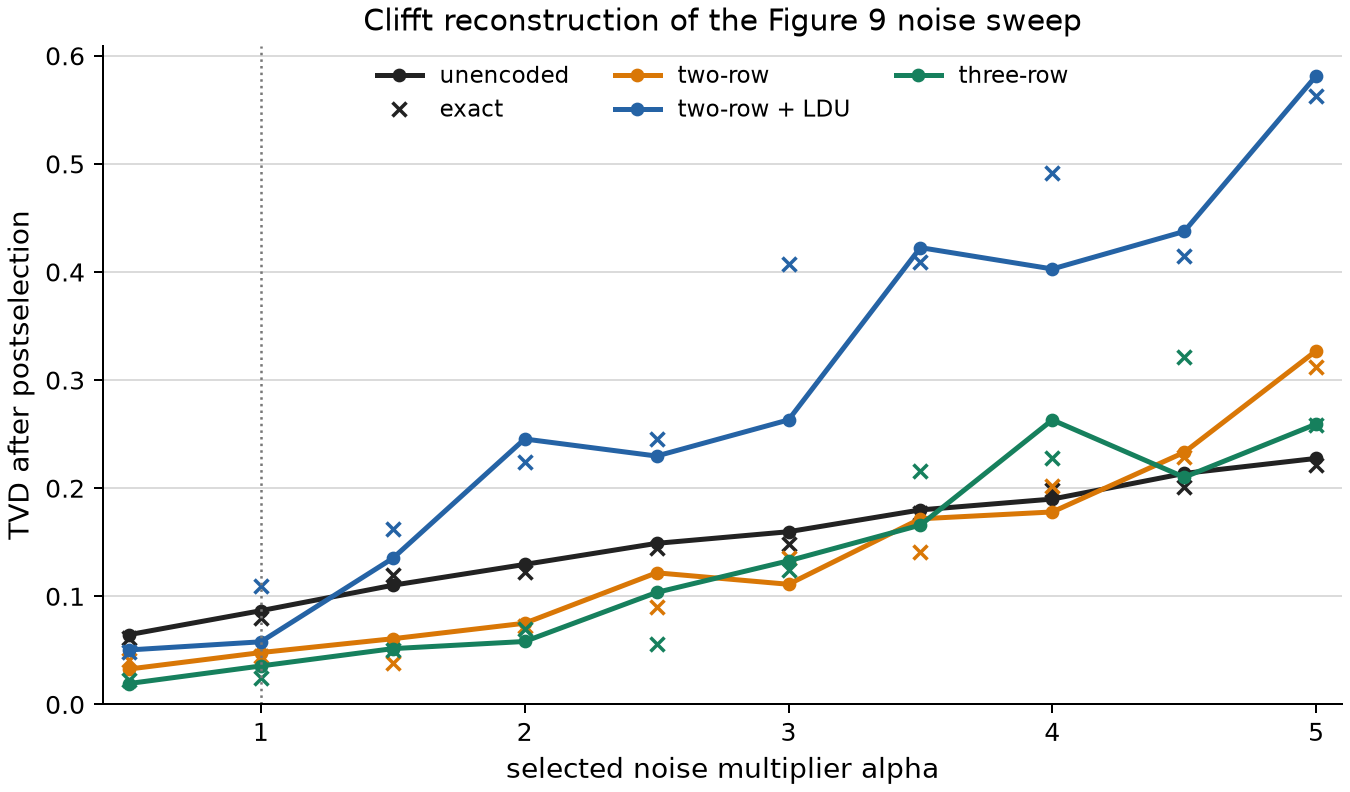
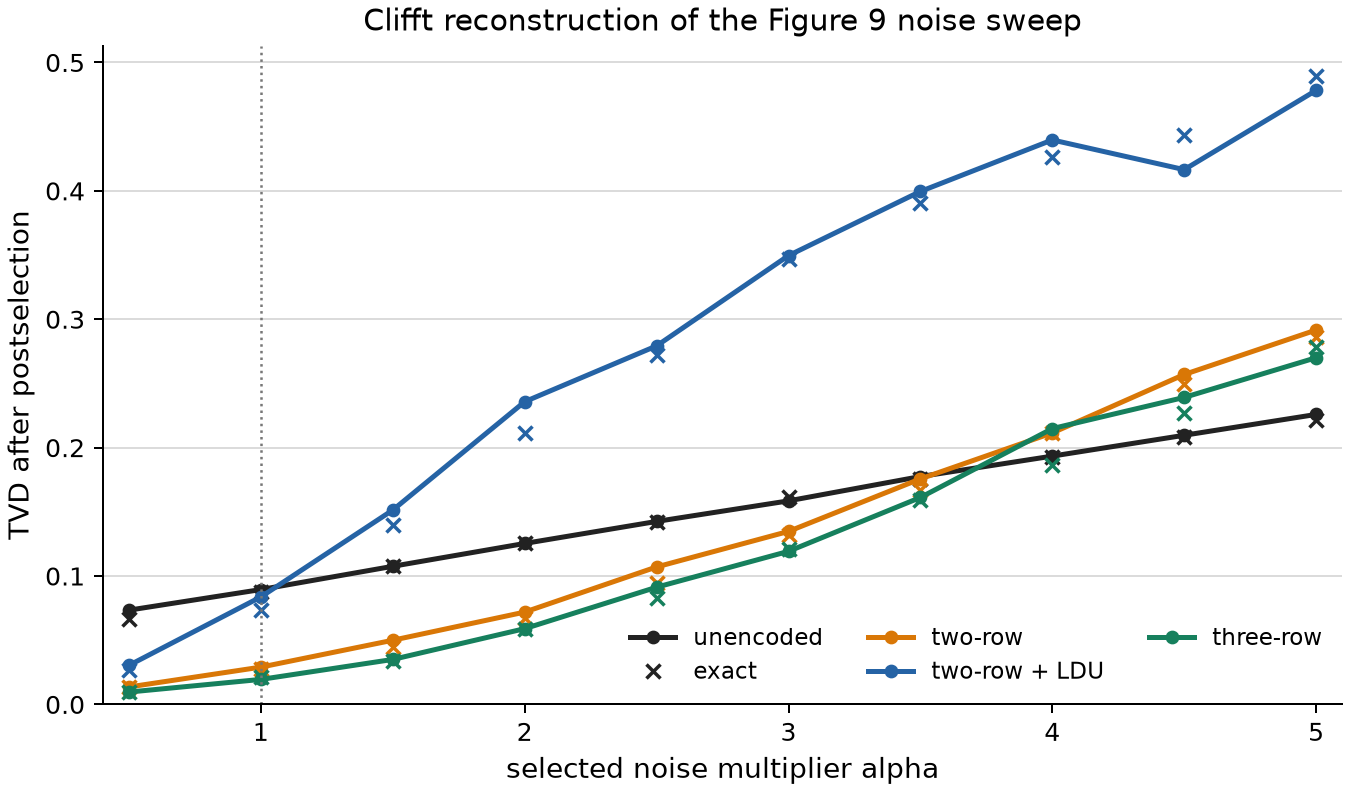
docs: polish logical Shor noise tutorial
Assisted-by: Codex (GPT-5) <noreply@openai.com>

diff --git a/docs/guide/scripts/neutral_atom_leakage_tutorial.py b/docs/guide/scripts/neutral_atom_leakage_tutorial.py
@@ -31,6 +31,7 @@ import numpy.typing as npt
 from clifft import noncomp
 
 ModelKind = Literal["matched", "exact"]
+ThreadCount: TypeAlias = int | Literal["auto"]
 Counts: TypeAlias = Mapping[str, float | int]
 MutableCounts: TypeAlias = dict[str, float | int]
 MODEL_KINDS: tuple[ModelKind, ...] = ("matched", "exact")
@@ -325,6 +326,7 @@ def run_experiment(
     alpha: float = 1.0,
     cz_asymmetry: float | None = None,
     isolate_cz_asymmetry: bool = False,
+    threads: ThreadCount = 1,
 ) -> ExperimentResult:
     """Sample and decode one checked-in schedule at a selected noise multiplier."""
     if shots <= 0:
@@ -345,6 +347,7 @@ def run_experiment(
         ),
         shots=shots,
         seed=seed,
+        threads=threads,
     )
     raw_counts = Counter("".join(str(symbol) for symbol in row) for row in result.symbols())
     decoded = decode_counts(circuit, raw_counts)
@@ -389,6 +392,7 @@ def figure9_sweep(*, shots: int, seed: int) -> list[ExperimentResult]:
                         shots=shots,
                         seed=seed + 10_000 * model_index + 100 * circuit_index + alpha_index,
                         alpha=alpha,
+                        threads="auto",
                     )
                 )
     return results
@@ -412,6 +416,7 @@ def asymmetry_sweep(*, shots: int, seed: int) -> list[AcceptanceDifference]:
                 alpha=alpha,
                 cz_asymmetry=asymmetry_pp / 100,
                 isolate_cz_asymmetry=True,
+                threads="auto",
             )
             exact = run_experiment(
                 "two_row_ldu",
@@ -421,6 +426,7 @@ def asymmetry_sweep(*, shots: int, seed: int) -> list[AcceptanceDifference]:
                 alpha=alpha,
                 cz_asymmetry=asymmetry_pp / 100,
                 isolate_cz_asymmetry=True,
+                threads="auto",
             )
             standard_error = sqrt(
                 matched.acceptance * (1 - matched.acceptance) / shots

diff --git a/docs/guide/neutral-atom-leakage.md b/docs/guide/neutral-atom-leakage.md
@@ -1,6 +1,6 @@
 <!--pytest-codeblocks:skipfile-->
 
-# Tutorial: Reproducing a Neutral-Atom Logical Noise Sweep
+# Tutorial: Reproducing the Logical Shor Noise Sweep on Neutral Atoms
 
 This advanced tutorial reconstructs the simulated Shor noise sweep in Figure 9
 of Rines *et al.*, ["Demonstration of a Logical Architecture Uniting Motion and
@@ -67,7 +67,7 @@ at their new sites.
 
 The files record the nominal `alpha=1` probabilities. The runnable script
 rescales the selected terms in memory, so the complete sweep needs only these
-four circuits. The [`README.txt`](circuits/neutral_atom/README.txt) records
+four circuits. The [`README.md`](circuits/neutral_atom/README.md) records
 their public source and license.
 
 ## Map the five-level noise model
@@ -145,7 +145,7 @@ that distinction; `alpha=1` is the nominal model stored in the circuit files.
 
 Color identifies the physical realization and lower TVD is better. Solid
 curves with circles use the rebalanced model; crosses use exact no-jump
-back-action. Each checked-in point uses 2,000 trajectories per model. The
+back-action. Each checked-in point uses 50,000 trajectories per model. The
 rebalanced curves reproduce the published ordering: the encoded schedules
 initially outperform the unencoded circuit, while their advantage disappears
 as the selected noise terms grow.
@@ -173,11 +173,11 @@ fits.
 
 At low noise, the estimated shift grows with the rate asymmetry. The absolute
 difference eventually shrinks because very few trajectories survive either
-model. With 1,000 trajectories per model and point, the bands are deliberately
-wide; increase `--asymmetry-shots` before drawing quantitative conclusions.
-The qualitative lesson is still visible: checking only decoded distributions
-can miss a modeling bias because conditional back-action changes the
-postselected ensemble itself.
+model. The checked-in figure uses 10,000 trajectories per model and point;
+increase `--asymmetry-shots` further before drawing precise quantitative
+conclusions. The qualitative lesson is clear: checking only decoded
+distributions can miss a modeling bias because conditional back-action changes
+the postselected ensemble itself.
 
 The conclusion is not that the published approximation was unusable. Its
 physical asymmetry is mild. The useful result is that Clifft lets us validate
@@ -206,10 +206,11 @@ uv run --with matplotlib python \
   docs/guide/scripts/neutral_atom_leakage_tutorial.py --figures
 ```
 
-That command uses the same fixed seed and sampling budgets as the checked-in
-images: 2,000 trajectories per model and Figure 9 point and 1,000 per model and
-asymmetry point. For smoother curves and narrower acceptance intervals, raise
-`--figure9-shots` and `--asymmetry-shots`.
+That quick command uses 2,000 trajectories per model and Figure 9 point and
+1,000 per model and asymmetry point. To reproduce the smoother checked-in
+figures, add `--figure9-shots 50000 --asymmetry-shots 10000`. Figure generation
+uses Clifft's automatic parallel sampling; seeded results are independent of
+thread count.
 
 The script converts Clifft's measurement and herald arrays to the public
 artifact's three-symbol records, then:

diff --git a/docs/guide/circuits/neutral_atom/README.md b/docs/guide/circuits/neutral_atom/README.md
@@ -1,20 +1,18 @@
-Neutral-atom tutorial circuits
-==============================
+# Neutral-atom logical Shor circuits
 
 These circuits are translations of the final Shor schedules used for Figure 9
 of:
 
-  Rich Rines et al., "Demonstration of a Logical Architecture Uniting Motion
-  and In-Place Entanglement," arXiv:2509.13247.
-  https://arxiv.org/abs/2509.13247
+[Rich Rines et al., "Demonstration of a Logical Architecture Uniting Motion
+and In-Place Entanglement," arXiv:2509.13247](https://arxiv.org/abs/2509.13247).
 
 The original schedules and noise model are in the public supplementary
 artifact:
 
-  https://zenodo.org/records/17137995
-  archive: shor_cdcx_mhc.zip
-  archive MD5: 9441a5407c19ba7366e041a2241b8b4c
-  source code license: Apache-2.0
+- Artifact: [Zenodo record 17137995](https://zenodo.org/records/17137995)
+- Archive: `shor_cdcx_mhc.zip`
+- Archive MD5: `9441a5407c19ba7366e041a2241b8b4c`
+- Source code license: Apache-2.0
 
 The checked-in circuits use the artifact's alpha=1 noise parameters. Physical
 atom motion has already been resolved into atom-wire relabeling, so no quantum

diff --git a/docs/guide/leakage-and-loss.md b/docs/guide/leakage-and-loss.md
@@ -22,7 +22,7 @@ restored. One program compiled before sampling cannot describe every shot, so
 This page is the API walkthrough. The model and its simulation semantics
 are described in [Noncomputational States](../theory/noncomputational.md).
 The [Delayed Loss tutorial](delayed-loss.md) introduces the API with a
-surface-code memory experiment. The advanced [Neutral-Atom Noise Sweep
+surface-code memory experiment. The advanced [Logical Shor Noise Sweep
 tutorial](neutral-atom-leakage.md) applies the complete five-level model to a
 published logical experiment.
 

diff --git a/docs/guide/delayed-loss.md b/docs/guide/delayed-loss.md
@@ -353,7 +353,7 @@ uv run --with matplotlib python docs/guide/scripts/delayed_loss_tutorial.py
 
 See [Leakage and Loss](leakage-and-loss.md) for the complete model API and
 [Noncomputational States](../theory/noncomputational.md) for the trajectory
-semantics. The advanced [Neutral-Atom Noise Sweep
+semantics. The advanced [Logical Shor Noise Sweep
 tutorial](neutral-atom-leakage.md) shows state-dependent leakage, logical
 postselection, and exact no-jump back-action in a published neutral-atom
 experiment.
